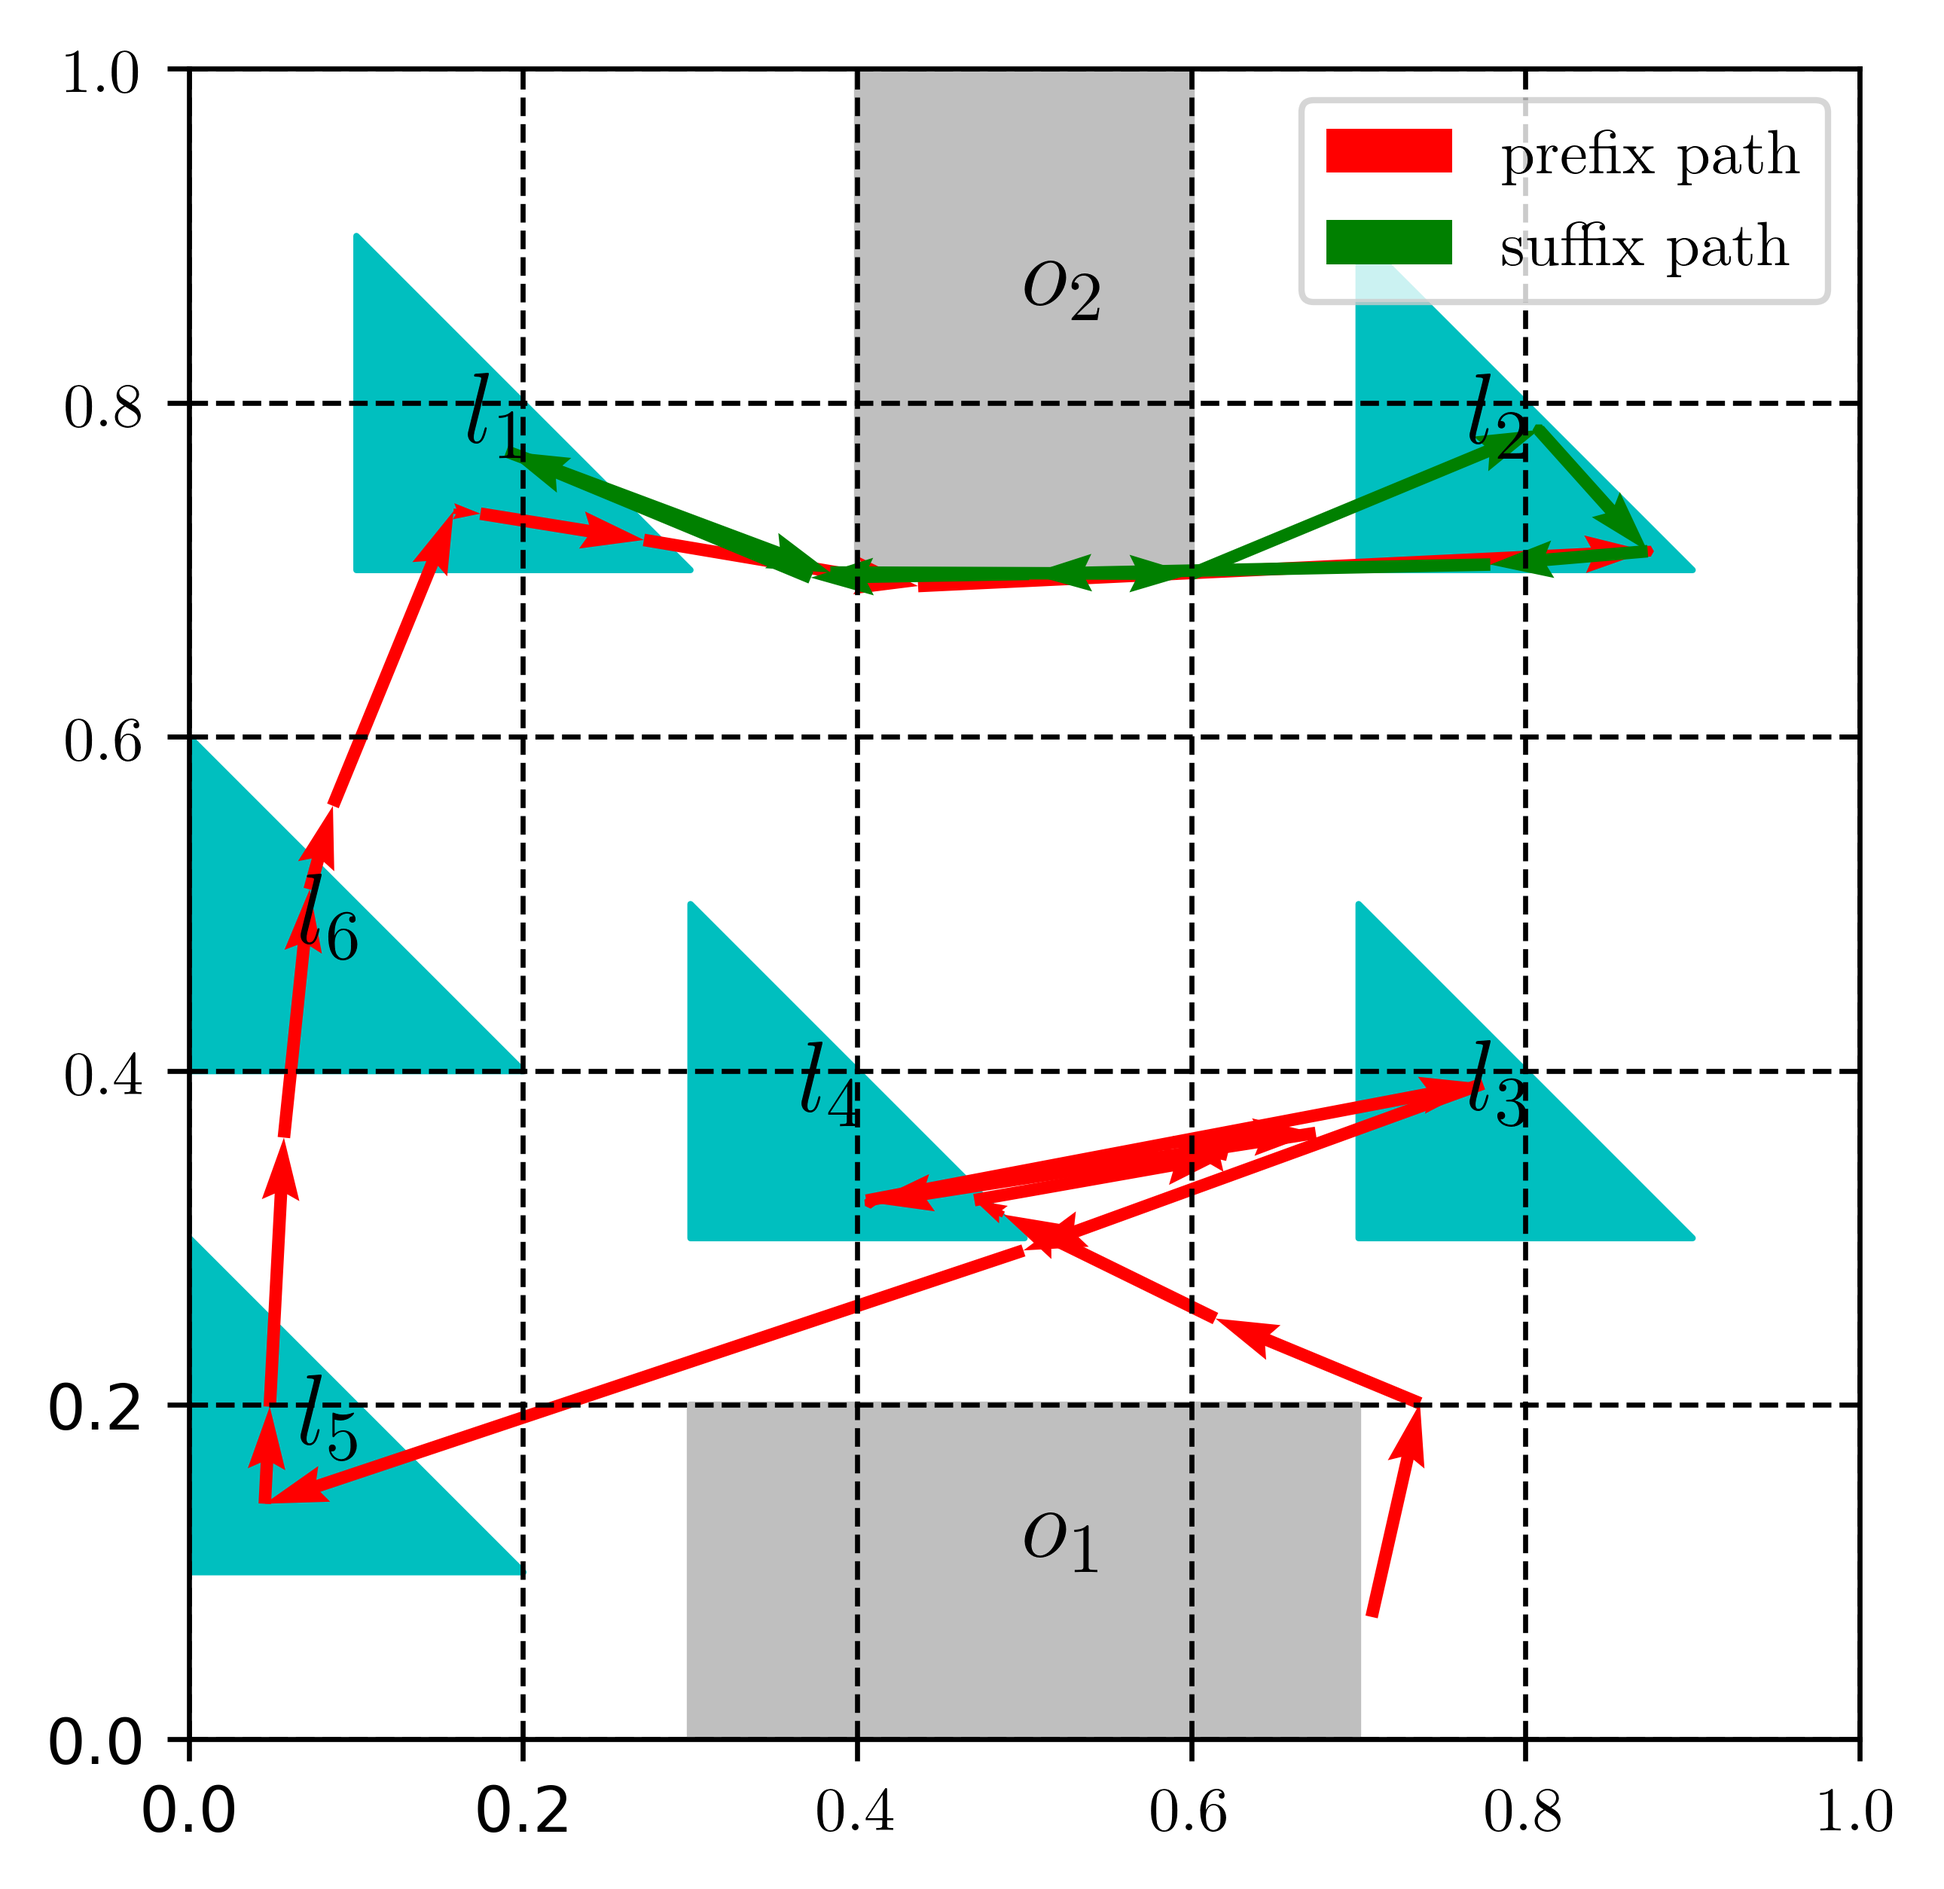
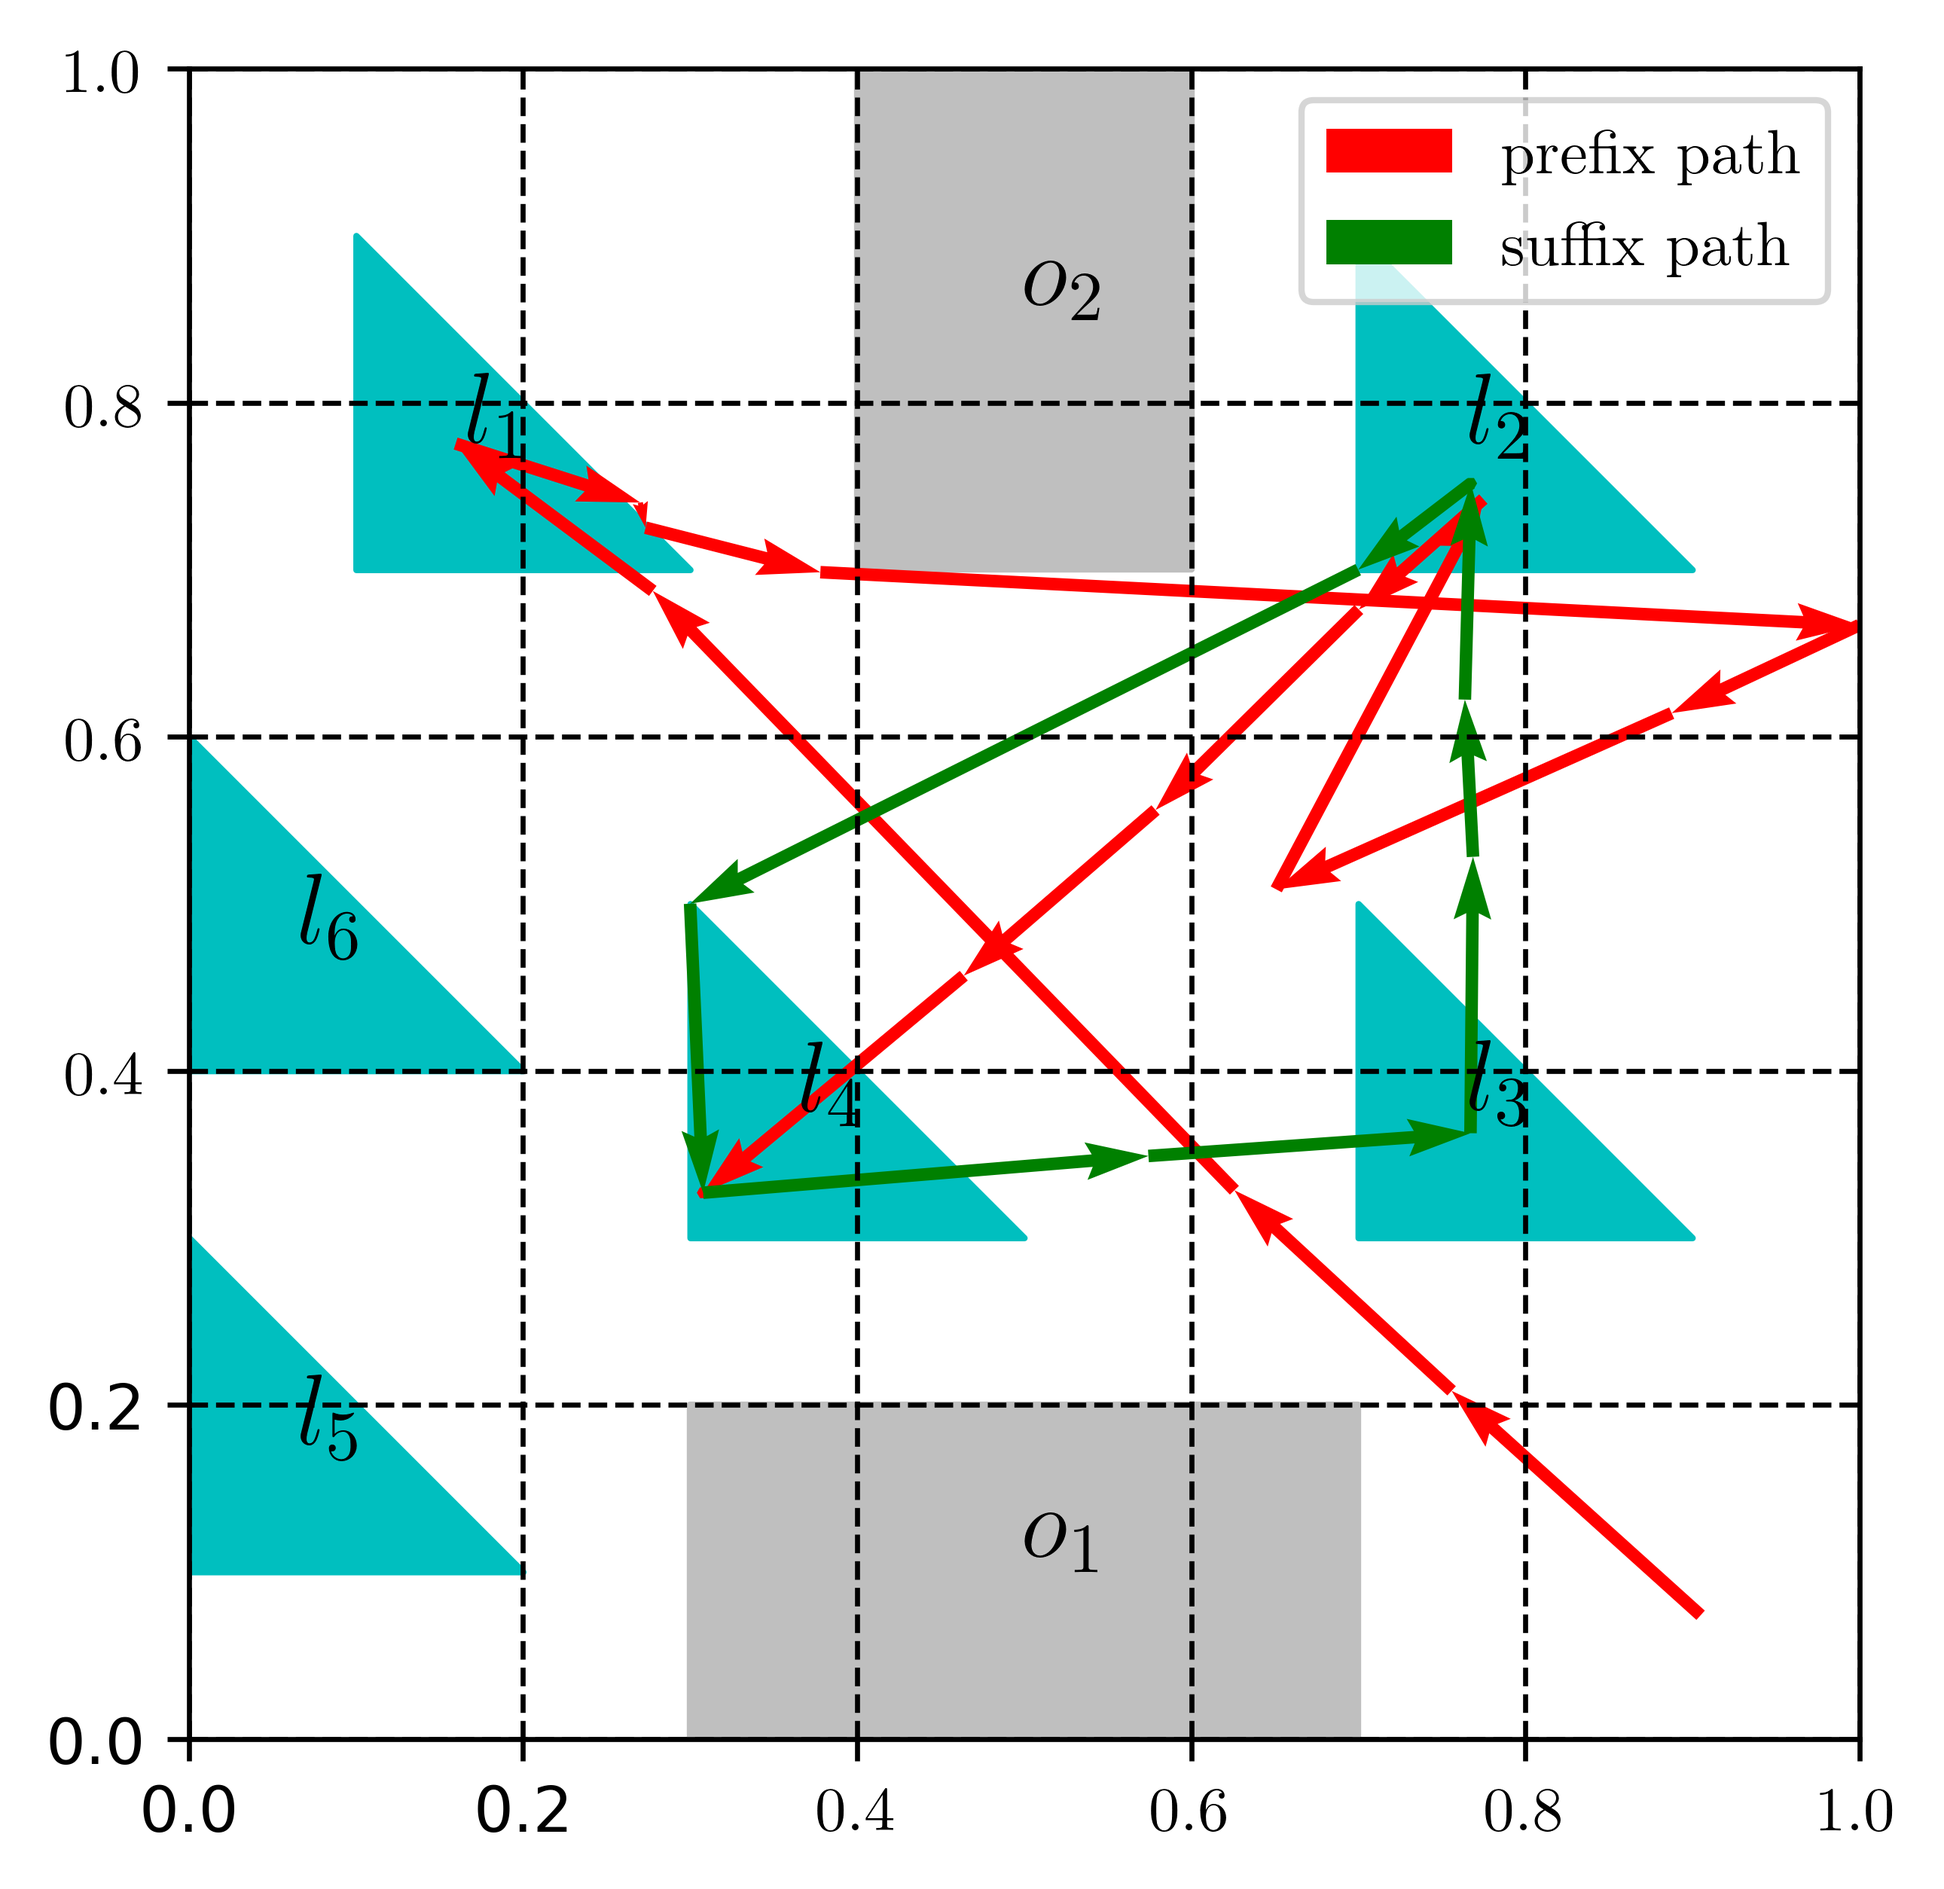
README

diff --git a/task.py b/task.py
@@ -32,38 +32,21 @@ class Task(object):
 
         # task specification, e_i are subformulas, li_j means the j-th robot is at regions l_i
         # --------------------------- Task 1 -------------------------------
-        self.formula = '<> e1 && <> e2  && <> e3 && <> e4 && <> e5 && <> e6'
+        self.formula = '<> e1 && []<> (e2 && <> e3) && (!e3 U e4) && []!e5'
         self.subformula = {1: '(l1_1)',
                            2: '(l2_1)',
                            3: '(l3_1)',
                            4: '(l4_1)',
                            5: '(l5_1)',
-                           6: '(l6_1)'
                            }
         # --------------------------- Task 2 -------------------------------
-        # self.formula = '<> e1 && []<> (e2 && <> e3) && (!e3 U e4) && []!e5'
-        # self.subformula = {1: '(l1_1)',
-        #                    2: '(l2_1)',
-        #                    3: '(l3_1)',
-        #                    4: '(l4_1)',
-        #                    5: '(l5_1)',
-        #                    }
-        # --------------------------- Task 3 -------------------------------
         # self.formula = '[]<> e1 && []<> e3 && !e1 U e2'
         # self.subformula = {1: '(l1_1)',
         #                    2: '(l6_1)',
         #                    3: '(l5_2)'
         #                 }
-        # --------------------------- Task 4 -------------------------------
-        # self.formula = '[]<> e1 && []<> e2 && []<> e3 && []<>(e4 && <>(e5 && <> e6))'
-        # self.subformula = {
-        #     1: '(l1_1 && l1_2)',
-        #     2: '(l2_2 && l2_3)',
-        #     3: '(l3_3 && l3_4)',
-        #     4: '(l4_1)',
-        #     5: '(l5_4)',
-        #     6: '(l6_3)'}
-        # --------------------------- Task 5 -------------------------------
+
+        # --------------------------- Task 3 -------------------------------
         # randomly generate tasks
         # num_of_robot_in_one_group = 8
         # group = np.array(range(1, self.number_of_robots + 1))
@@ -86,8 +69,17 @@ class Task(object):
         #     formula.append('(' + ' && '.join(subformula) + ')')
         #
         # self.subformula = {i: formula[i-1] for i in range(1, 9)}
-        # print(self.subformula)
         # self.formula = '[]<> e1 && []<> e2 && []<> e3 && []<>(e4 && <>(e5 && <> e6)) && <> e7 && []<>e8 && (!e7 U e8)'
+
+        # --------------------------- Task 4 -------------------------------
+        # self.formula = '[]<> e1 && []<> e2 && []<> e3 && []<>(e4 && <>(e5 && <> e6))'
+        # self.subformula = {
+        #     1: '(l1_1 && l1_2)',
+        #     2: '(l2_2 && l2_3)',
+        #     3: '(l3_3 && l3_4)',
+        #     4: '(l4_1)',
+        #     5: '(l5_4)',
+        #     6: '(l6_3)'}
 
         # randomly generate initial locations of robots with empty atomic propositions
         self.number_of_robots = 1   # self.number_of_robots = num_of_robot_in_one_group * 8 for task 5

diff --git a/README.md b/README.md
@@ -52,7 +52,24 @@ self.subformula = { 1: '(l1_1)',
                     5: '(l5_1)',
                     }     
 self.init = ((0.8, 0.1), )  # in the form of ((x,y), (x,y), ...)    
-self.threshold = 0.005      # minimum distance between any pair of robots            
+self.threshold = 0.005      # minimum distance between any pair of robots  
+```
+The result regarding 
+```python
+Time for constructing the NBA: 0.1324 s
+------------------------------ prefix path --------------------------------
+Time for the prefix path: 0.1253 s
+1 accepting goals found
+-------------- suffix path for 1-th pre-goal (of 1 in total) --------------
+0-th pre-goals: 1 accepting goals found
+Time for the suffix path: 0.0809 s
+------------------------ prefix + suffix path -----------------------------
+t_pre  | t_suf  | t_total | cost
+0.1253 | 0.0809 | 0.3385  | 2.3579
+------------------------- print the path path -----------------------------
+(. for empty label, || ... || for the suffix path)
+robot 1 :  . -->  . -->  . -->  . --> l1 -->  . --> l1 -->  . -->  . -->  . -->  . --> l2 -->  . -->  . -->  . --> l4 --> l4 --> || l4 -->  . --> l3 -->  . -->  . --> l2 --> l2 -->  . -->  . --> l4 --> || 
+
 ```
 ## Case 2
 ```python
@@ -68,7 +85,7 @@ self.threshold = 0.005                # minimum distance between any pair of rob
 ```python
 self.formula = '[]<> e1 && []<> e2 && []<> e3 && []<>(e4 && <>(e5 && <> e6)) && <> e7 && []<>e8 && (!e7 U e8)'
 ```
-It presents high performance when the following code in [buchi_parse.py](buchi_parse.py) is uncommented.
+where each subformula is randomly generated, so is the initial location of each robot. It took less time when the following code in [buchi_parse.py](buchi_parse.py) is uncommented.
 ```python
 if ' && ' in symbol: continue
 ```
